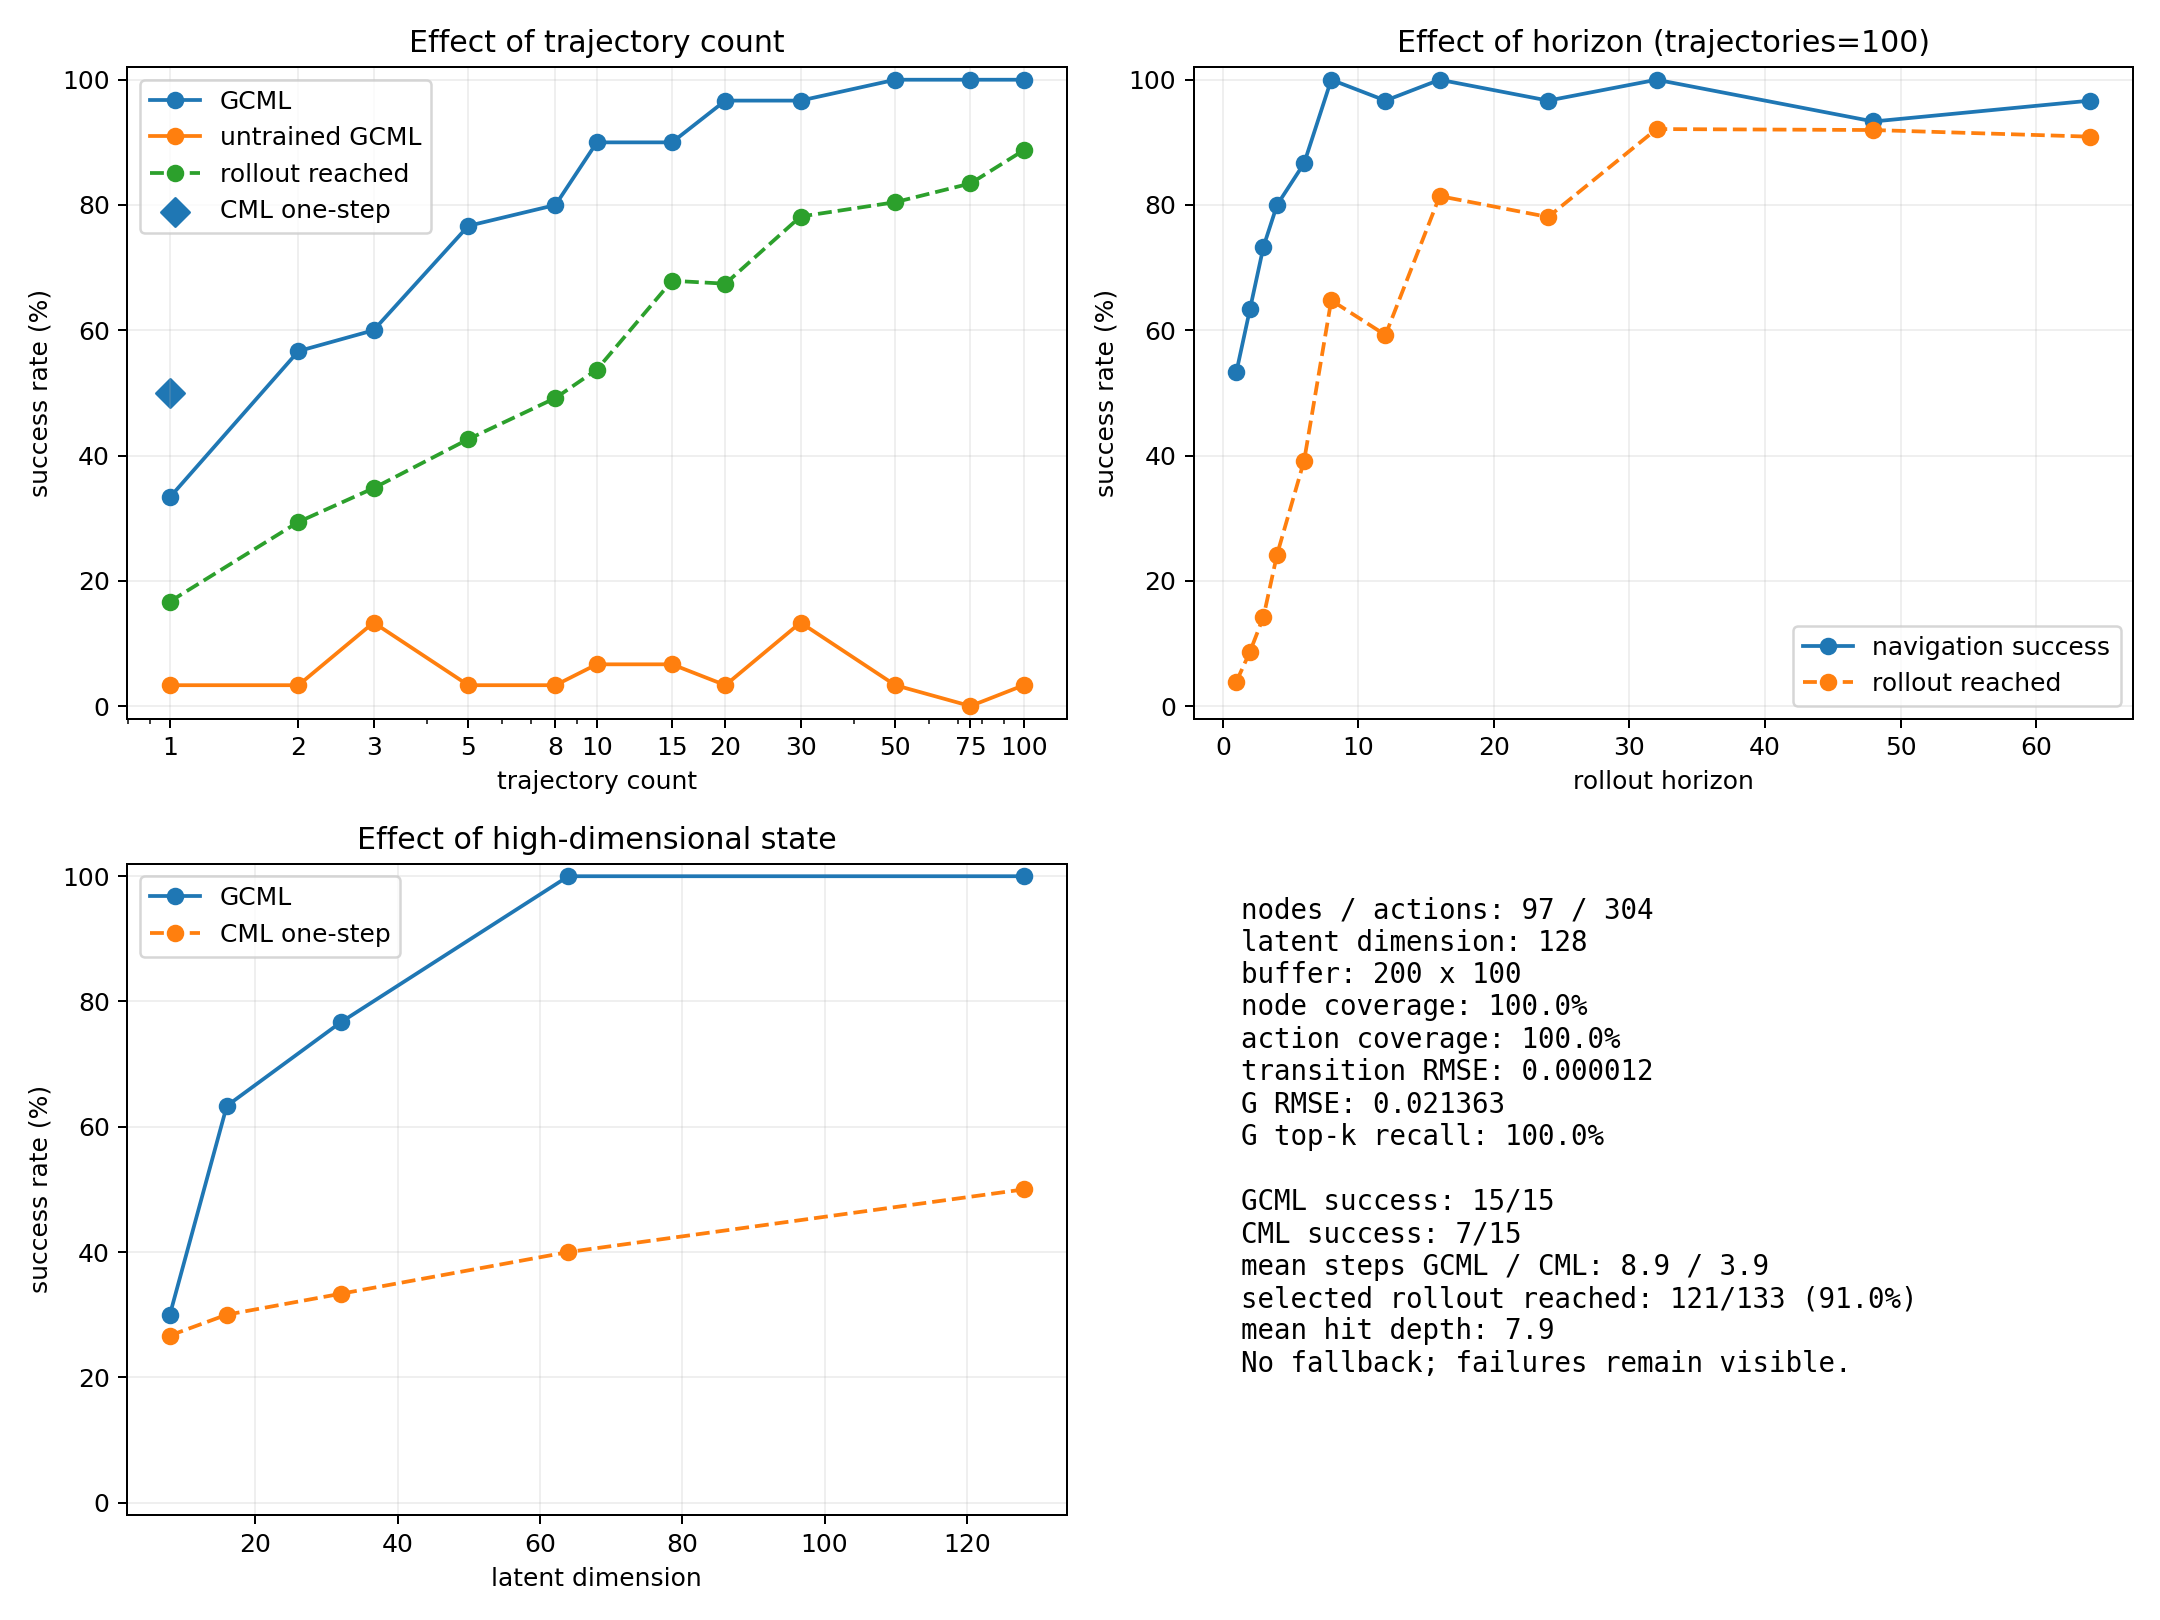
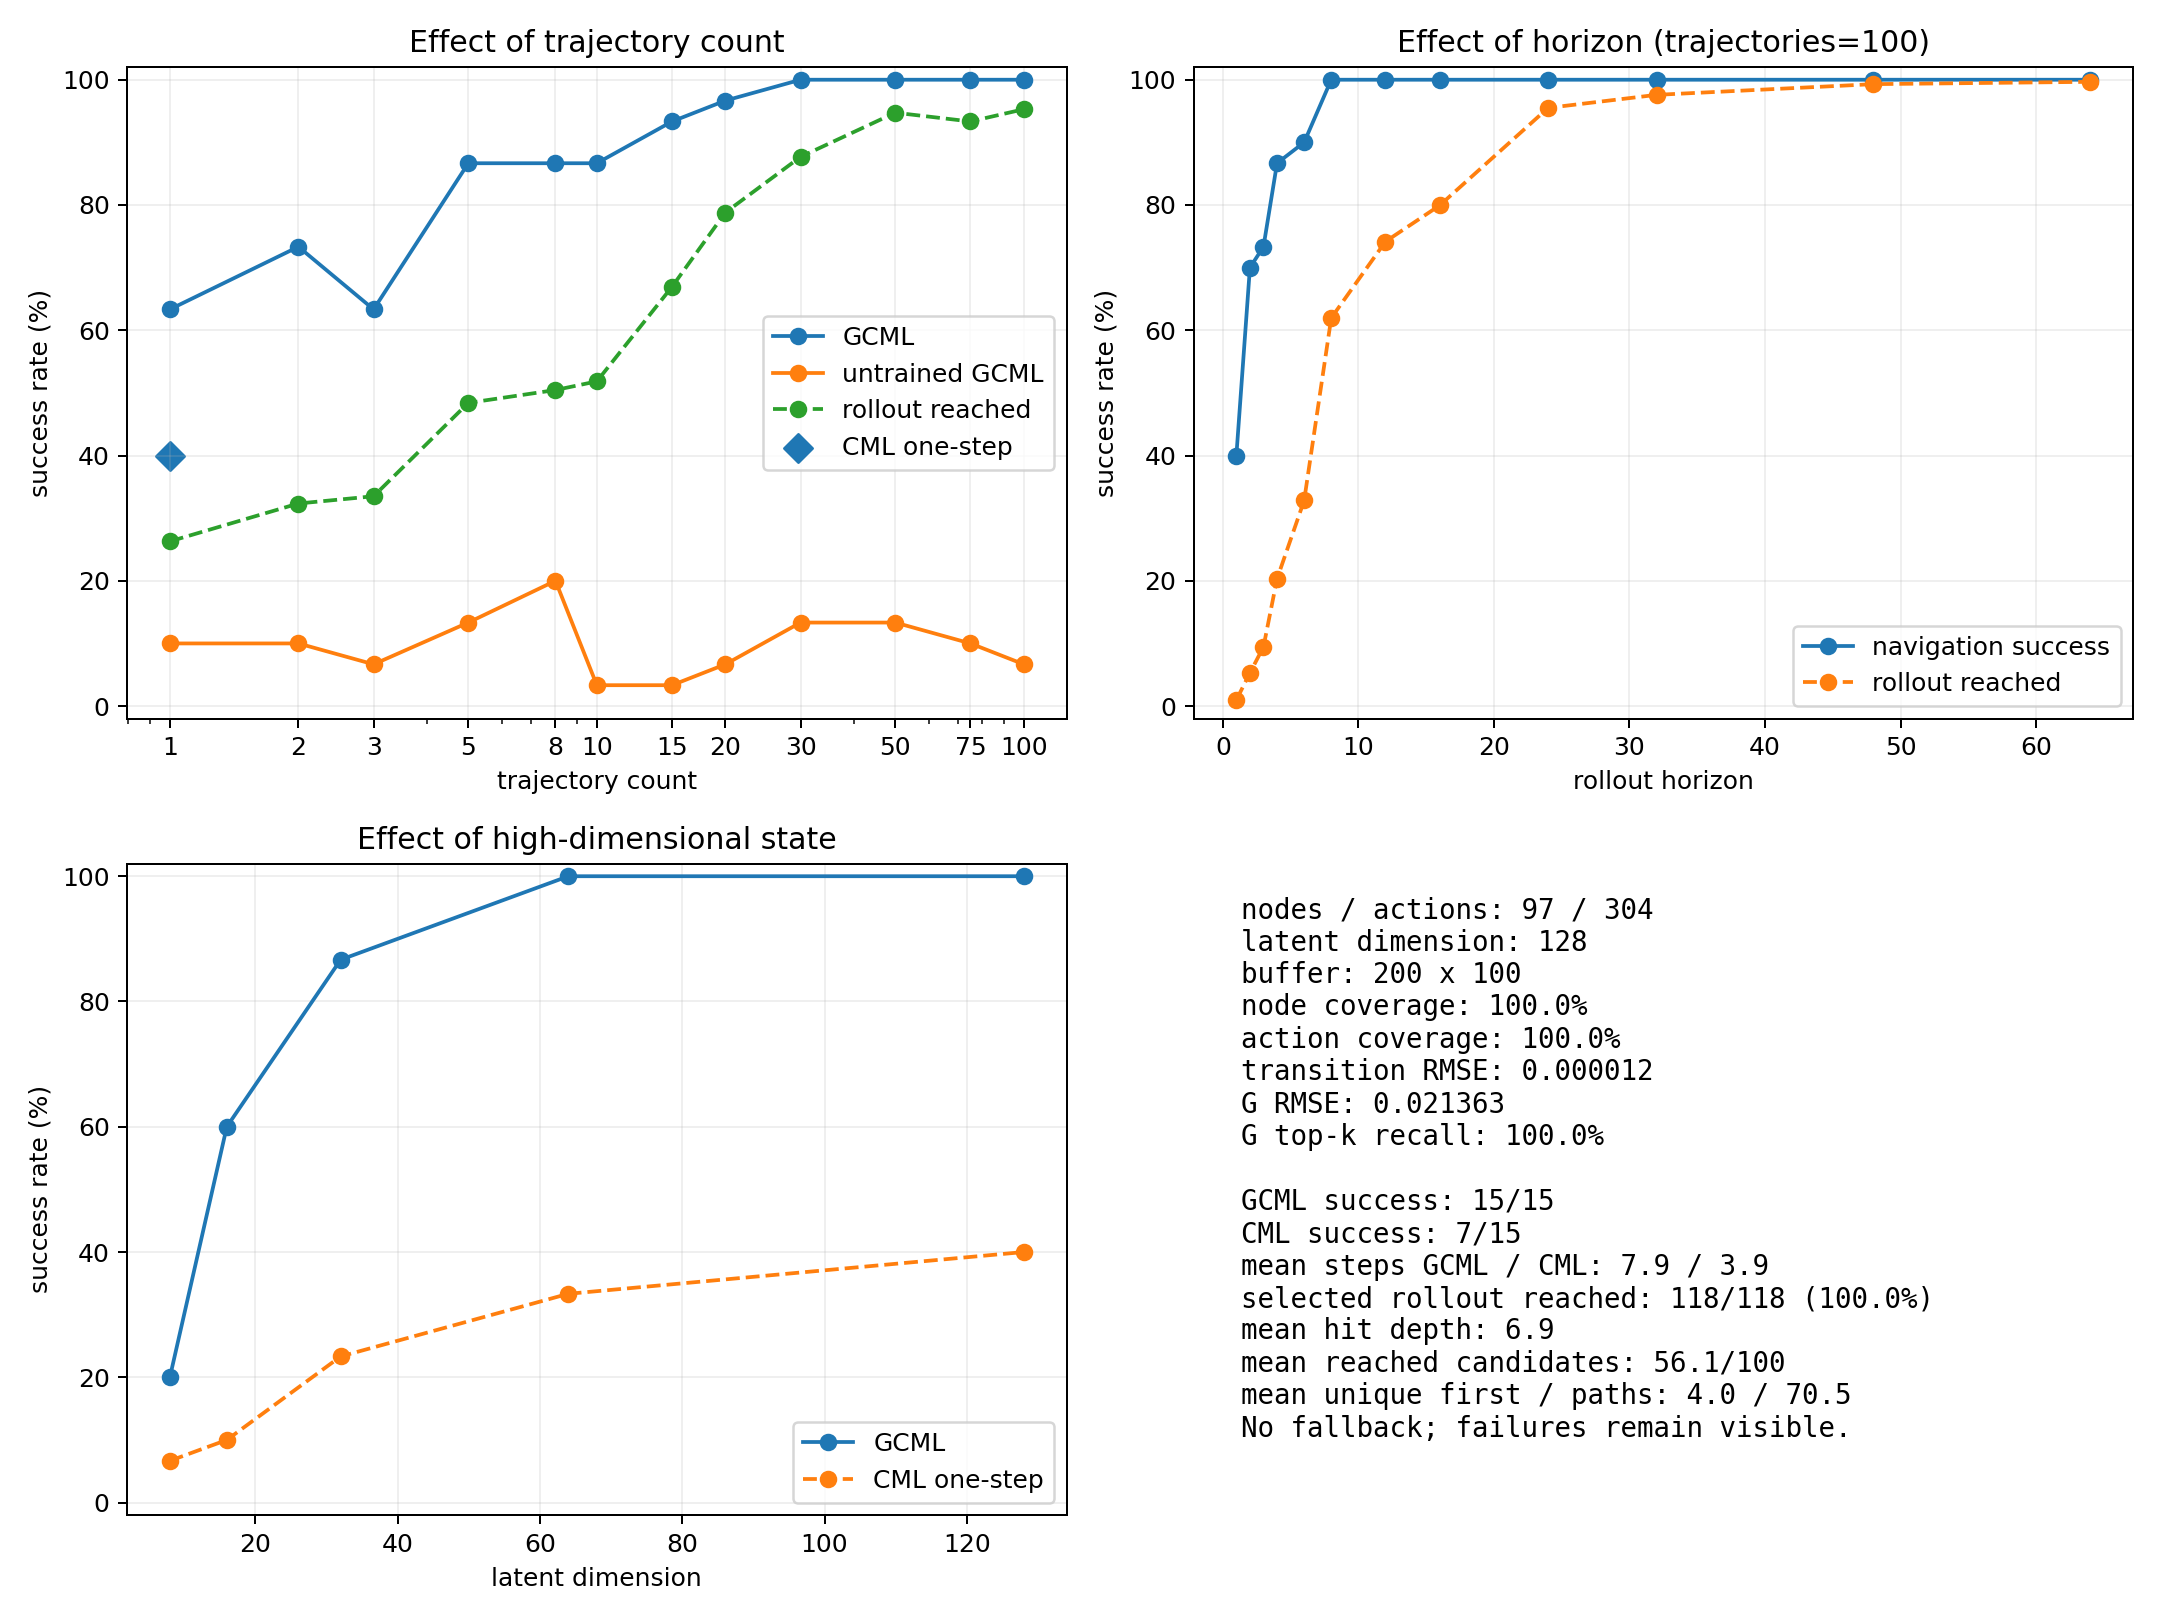
改进rollout评估与轨迹多样性

diff --git a/test.py b/test.py
@@ -76,14 +76,12 @@ def make_case(model, seed):
             return dict(start=start, goal=goal, start_node=start_node, goal_node=goal_node)
 
 
-def imagine_first_action(model, node, goal, real_actions, used_actions, samples, horizon, rng):
+def imagine_first_action(model, node, goal, real_actions, samples, horizon, rng):
     """并行生成samples条高维候选，评分后返回最佳候选的第一个动作。"""
     q, v, w, g = (model[name] for name in "QVWG")
     action_count = len(model["edges"])
     target = q[:, goal, None]                         # shape=(潜维数,1)
     state = np.repeat(q[:, node, None], samples, axis=1)
-    used = np.zeros((action_count, samples), bool)    # 每列对应一条候选轨迹
-    used[used_actions, :] = True
     paths = [[] for _ in range(samples)]              # 每条候选的动作编号序列
     arrived = np.zeros(samples, bool)
     residual = np.full(samples, np.inf)
@@ -99,7 +97,6 @@ def imagine_first_action(model, node, goal, real_actions, used_actions, samples,
         if step == 0:
             gate[real_actions, :] = 1                 # 第一想象步采用真实affordance
         eligibility = gate*(utility+noise[:, step].T) # 公式(18)
-        eligibility[used] = -np.inf
         if step == 0:
             eligibility[gate == 0] = -np.inf
         chosen = np.argmax(eligibility, axis=0)       # 公式(19)
@@ -109,7 +106,6 @@ def imagine_first_action(model, node, goal, real_actions, used_actions, samples,
             if not np.isfinite(eligibility[action, sample]):
                 continue
             paths[sample].append(action)
-            used[action, sample] = True
             state[:, sample] += v[:, action]          # 公式(20)，不查询真实下一节点
             residual[sample] = np.linalg.norm(state[:, sample]-target[:, 0])
             arrived[sample] = residual[sample] <= LATENT_GOAL_TOLERANCE
@@ -118,31 +114,33 @@ def imagine_first_action(model, node, goal, real_actions, used_actions, samples,
     ranked = [((not arrived[i], len(path) if arrived[i] else residual[i]), i)
               for i, path in enumerate(paths) if path]
     if not ranked:
-        return None, False, 0
+        return None, (False, 0, 0, 0, 0)
     best = min(ranked, key=lambda item: item[0])[1]
-    return int(paths[best][0]), bool(arrived[best]), len(paths[best])
+    valid = [tuple(path) for path in paths if path]
+    stats = (bool(arrived[best]), len(paths[best]), int(arrived.sum()),
+             len({path[0] for path in valid}), len(set(valid)))
+    return int(paths[best][0]), stats
 
 
 def gcml_rollout(model, case, samples=ROLLOUTS, horizon=ROLLOUT_HORIZON, seed=0):
     """类似MPC：选最佳想象轨迹，但每轮只真实执行它的第一个动作。"""
     edges, available = model["edges"], model["available"]
     node, goal = case["start_node"], case["goal_node"]
-    route, used_actions, trace = [node], [], []      # trace记录最佳想象是否抵达目标及步数
-    rng = np.random.default_rng(seed)
+    route, trace = [node], []
 
-    for _ in range(EXECUTION_HORIZON):
+    for step in range(EXECUTION_HORIZON):
         if node == goal:
             break
-        real_actions = np.asarray([a for a in available[node] if a not in used_actions])
+        real_actions = available[node]
         if not len(real_actions):
             break
-        action, hit, depth = imagine_first_action(
-            model, node, goal, real_actions, used_actions, samples, horizon, rng
+        action, stats = imagine_first_action(
+            model, node, goal, real_actions, samples, horizon,
+            np.random.default_rng(seed+step)  # 各决策独立，使不同samples共享噪声前缀
         )
         if action is None:
             break
-        trace.append((hit, depth))
-        used_actions.append(action)
+        trace.append(stats)
         node = int(edges[action, 1])                  # 这里只执行最佳候选第一步
         route.append(node)
     return route, node == goal, trace
@@ -151,17 +149,16 @@ def gcml_rollout(model, case, samples=ROLLOUTS, horizon=ROLLOUT_HORIZON, seed=0)
 def cml_rollout(model, case):
     """CML基线：无噪声、无G、无多步想象，每次真实状态只贪心走一步。"""
     q, w, edges = model["Q"], model["W"], model["edges"]
-    node, goal, used = case["start_node"], case["goal_node"], []
+    node, goal = case["start_node"], case["goal_node"]
     route = [node]                                  # 每次一步决策，累计后仍形成完整路线
     for _ in range(EXECUTION_HORIZON):
         if node == goal:
             return route, True
-        actions = np.asarray([a for a in model["available"][node] if a not in used])
+        actions = model["available"][node]
         if not len(actions):
             return route, False
         utility = w@(q[:, goal]-q[:, node])
         action = int(actions[np.argmax(utility[actions])])
-        used.append(action)
         node = int(edges[action, 1])
         route.append(node)
     return route, False
@@ -208,7 +205,7 @@ def benchmark(model):
     def evaluate(current, samples=ROLLOUTS, horizon=ROLLOUT_HORIZON, seed=0):
         runs = [gcml_rollout(current, case, samples, horizon, seed+i)
                 for i, case in enumerate(cases)]
-        trace = [hit for _, _, items in runs for hit, _ in items]
+        trace = [hit for _, _, items in runs for hit, *_ in items]
         return 100*np.mean([run[1] for run in runs]), 100*np.mean(trace) if trace else 100.
 
     cml_rate = 100*np.mean([cml_rollout(model, case)[1] for case in cases])
@@ -248,7 +245,7 @@ def draw_case(ax, model, result, index):
     ax.plot(*physical(result["gcml_route"], result["gcml_success"]).T,
             color="#ef6c00", lw=2, label="GCML")
     decisions = points[result["gcml_route"][:-1]]
-    reached = np.asarray([hit for hit, _ in result["rollout_trace"]], bool)
+    reached = np.asarray([hit for hit, *_ in result["rollout_trace"]], bool)
     if len(decisions):
         ax.scatter(*decisions[reached].T, facecolors="none", edgecolors="#2e7d32",
                    s=35, lw=1.5, zorder=4, label="rollout reached")
@@ -305,7 +302,7 @@ def save_figures(model, results, scores, metrics):
     ax.grid(alpha=.2); ax.legend()
 
     trace = [item for result in results for item in result["rollout_trace"]]
-    hit_depths = [depth for hit, depth in trace if hit]
+    hit_depths = [depth for hit, depth, *_ in trace if hit]
     def route_stats(name):
         good = [r for r in results if r[name+"_success"]]
         steps = [len(r[name+"_route"])-1 for r in good]
@@ -327,6 +324,9 @@ def save_figures(model, results, scores, metrics):
               f"selected rollout reached: {len(hit_depths)}/{len(trace)} "
               f"({len(hit_depths)/max(len(trace), 1):.1%})\n"
               f"mean hit depth: {np.mean(hit_depths) if hit_depths else 0:.1f}\n"
+              f"mean reached candidates: {np.mean([x[2] for x in trace]):.1f}/{ROLLOUTS}\n"
+              f"mean unique first / paths: {np.mean([x[3] for x in trace]):.1f} / "
+              f"{np.mean([x[4] for x in trace]):.1f}\n"
               f"No fallback; failures remain visible.",
               va="top", family="monospace", fontsize=11)
     fig.tight_layout(); fig.savefig(REPORT_FIGURE, dpi=180); plt.close(fig)
@@ -352,7 +352,7 @@ def main():
                for a, b in zip(route[:-1], route[1:])):
             raise AssertionError("GCML执行了无效动作")
         results.append(result)
-        reach_text = "".join("T" if hit else "F" for hit, _ in rollout_trace) or "-"
+        reach_text = "".join("T" if hit else "F" for hit, *_ in rollout_trace) or "-"
         print(f"case {i+1:02d}: GCML={gcml_success}({len(gcml_route)-1} steps), "
               f"CML={cml_success}({len(cml_route)-1} steps), "
               f"rollout_reached={reach_text}")

diff --git a/README.md b/README.md
@@ -220,6 +220,8 @@ a_t=\operatorname{WTA}(e_t),
 
 第一想象步使用当前真实affordance，第二步以后只使用 \(G\hat s_t\)。想象阶段不会查询真实下一节点，也不会进行图搜索。
 
+当前实现不禁止重复动作，也不维护额外的动作黑名单：每一步都严格由 \(W\)、\(G\)、噪声和WTA产生动作。模型因此可以在想象或真实执行中回退、循环；这类失败会被64步真实执行上限如实暴露。
+
 候选评分规则：
 
 - 成功到达目标潜状态：按想象动作数排序，越短越好。
@@ -288,6 +290,8 @@ success=False
 
 另外记录 `rollout hit`：每次真实决策生成100条候选后，被选中的候选是否在32步内满足 $\|\hat s_T-s^*\|_2<0.8$。若至少一条候选到达，评分会优先选到达者；若全部未到达，才选择最终潜状态残差最小者。`test_15_cases.png`中，GCML决策节点外的绿色空心圆表示被选rollout到达，红色叉表示未到达、仅按残差选取；标题 `Rhit=x/y` 是相应汇总。报告还给出总体到达率和到达轨迹的平均想象深度。这里的目标是 $Q_{:\mathrm{goal}}$ 对应的离散目标地标，不是图中星形连续坐标。
 
+候选数量消融采用“共同随机数”：同一个真实决策点上，1、2、3、……条候选使用同一组随机噪声的前缀。因此增加候选数等价于在原候选集合后追加轨迹，不会因为随机流整体改变而造成不公平比较。报告还统计每次决策中到达目标的候选数量、不同第一动作数和不同完整动作序列数，用于确认100条rollout并非大量完全相同的复制。
+
 这些实验使用相同地图、节点、动作集和同一批随机起终点。维数实验的各模型也使用相同buffer训练，尽量只改变被考察变量。默认使用30组随机任务；需要更稳定的统计时可继续增大 `test.py` 顶部的 `BENCHMARK_CASES`。
 
 本次实测得到：
@@ -296,12 +300,14 @@ success=False
 节点 / 动作：97 / 304
 GCML（15组可视化）：15/15
 CML（15组可视化）：7/15
-30组基准：GCML（100条）100%，CML 50%
-维数8,16,32,64,128对应GCML成功率：30.0%, 63.3%, 76.7%, 100%, 100%
-15组图中被选rollout命中目标：121/133（91.0%），命中候选平均深度7.9步
+30组基准：GCML（100条）100%，CML 40%
+维数8,16,32,64,128对应GCML成功率：20.0%, 60.0%, 86.7%, 100%, 100%
+15组图中被选rollout命中目标：118/118（100%），命中候选平均深度6.9步
+每次决策平均到达候选：56.1/100
+每次决策平均不同第一动作 / 不同完整轨迹：4.0 / 70.5
 ```
 
-降低节点密度后，图的平均最短跳数下降；128维允许97个离散状态获得更充分的表示。配合100条候选，30组基准恢复到100%成功，被选rollout到达率也明显提高。未到达时仍按最终潜状态残差选择并重新规划。这些数值只对应当前随机种子和任务分布。
+降低节点密度后，图的平均最短跳数下降；128维允许97个离散状态获得更充分的表示。配合100条候选，30组基准保持100%成功。移除动作黑名单后，一步CML会如实暴露确定性循环，因此其30组成功率为40%；GCML仍可依靠多轨迹比较消除局部错误。平均70.5条不同完整轨迹和56.1条到达候选也说明采样具有实际多样性。未到达时仍按最终潜状态残差选择并重新规划。这些数值只对应当前随机种子和任务分布。
 
 ## 10. 当前测试检查
 
@@ -317,6 +323,8 @@ CML（15组可视化）：7/15
 - GCML随rollout horizon变化的成功率。
 - GCML与一步CML随潜状态维数变化的成功率。
 - 候选数量和horizon变化时，被选rollout实际进入目标潜状态邻域的比例。
+- 不同候选数量共享随机噪声前缀，保证rollout数量消融公平。
+- 每次决策中到达候选、不同第一动作和不同完整轨迹的数量。
 - Q/V/W/G维度与数值有限性、地标图连通性、buffer中每次状态转移与动作边的一致性。
 - 18个通道节点是否都至少连接墙两侧局部结构。
 - GCML/CML成功任务的平均真实执行步数。
